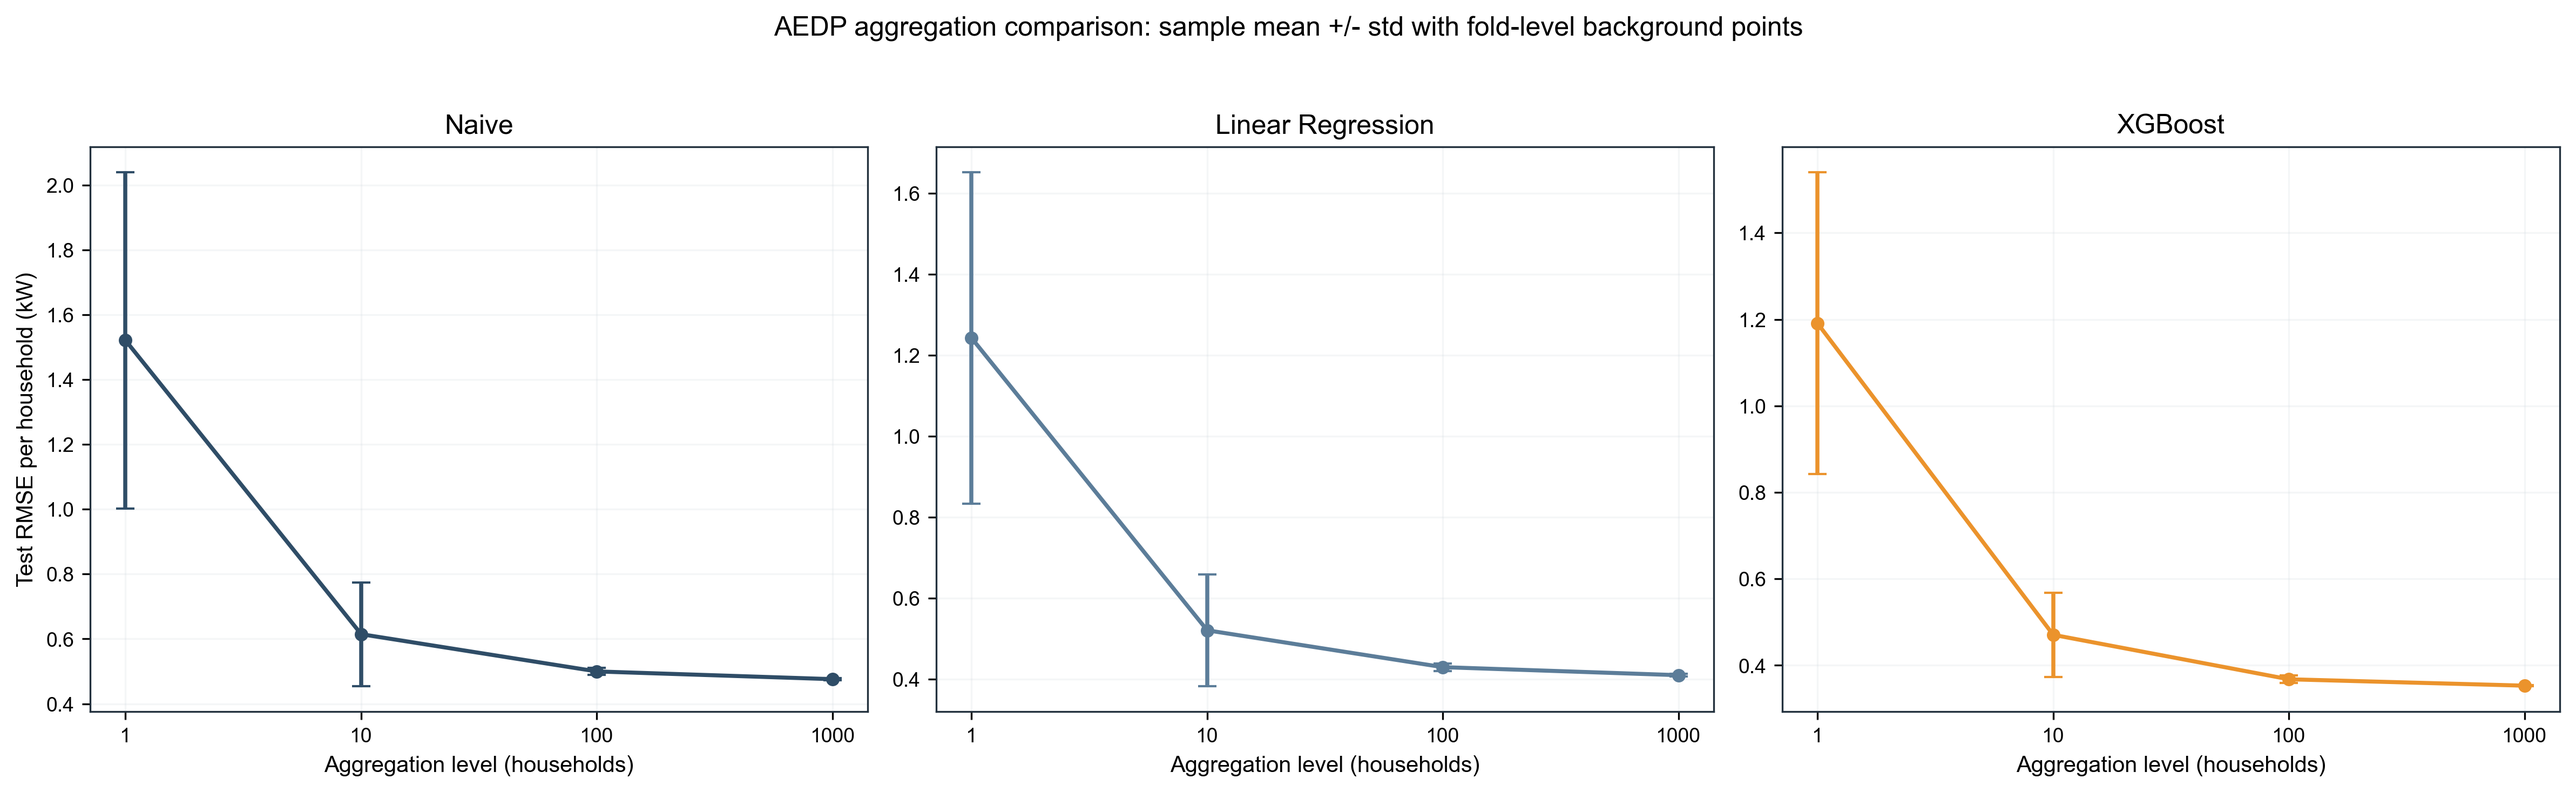
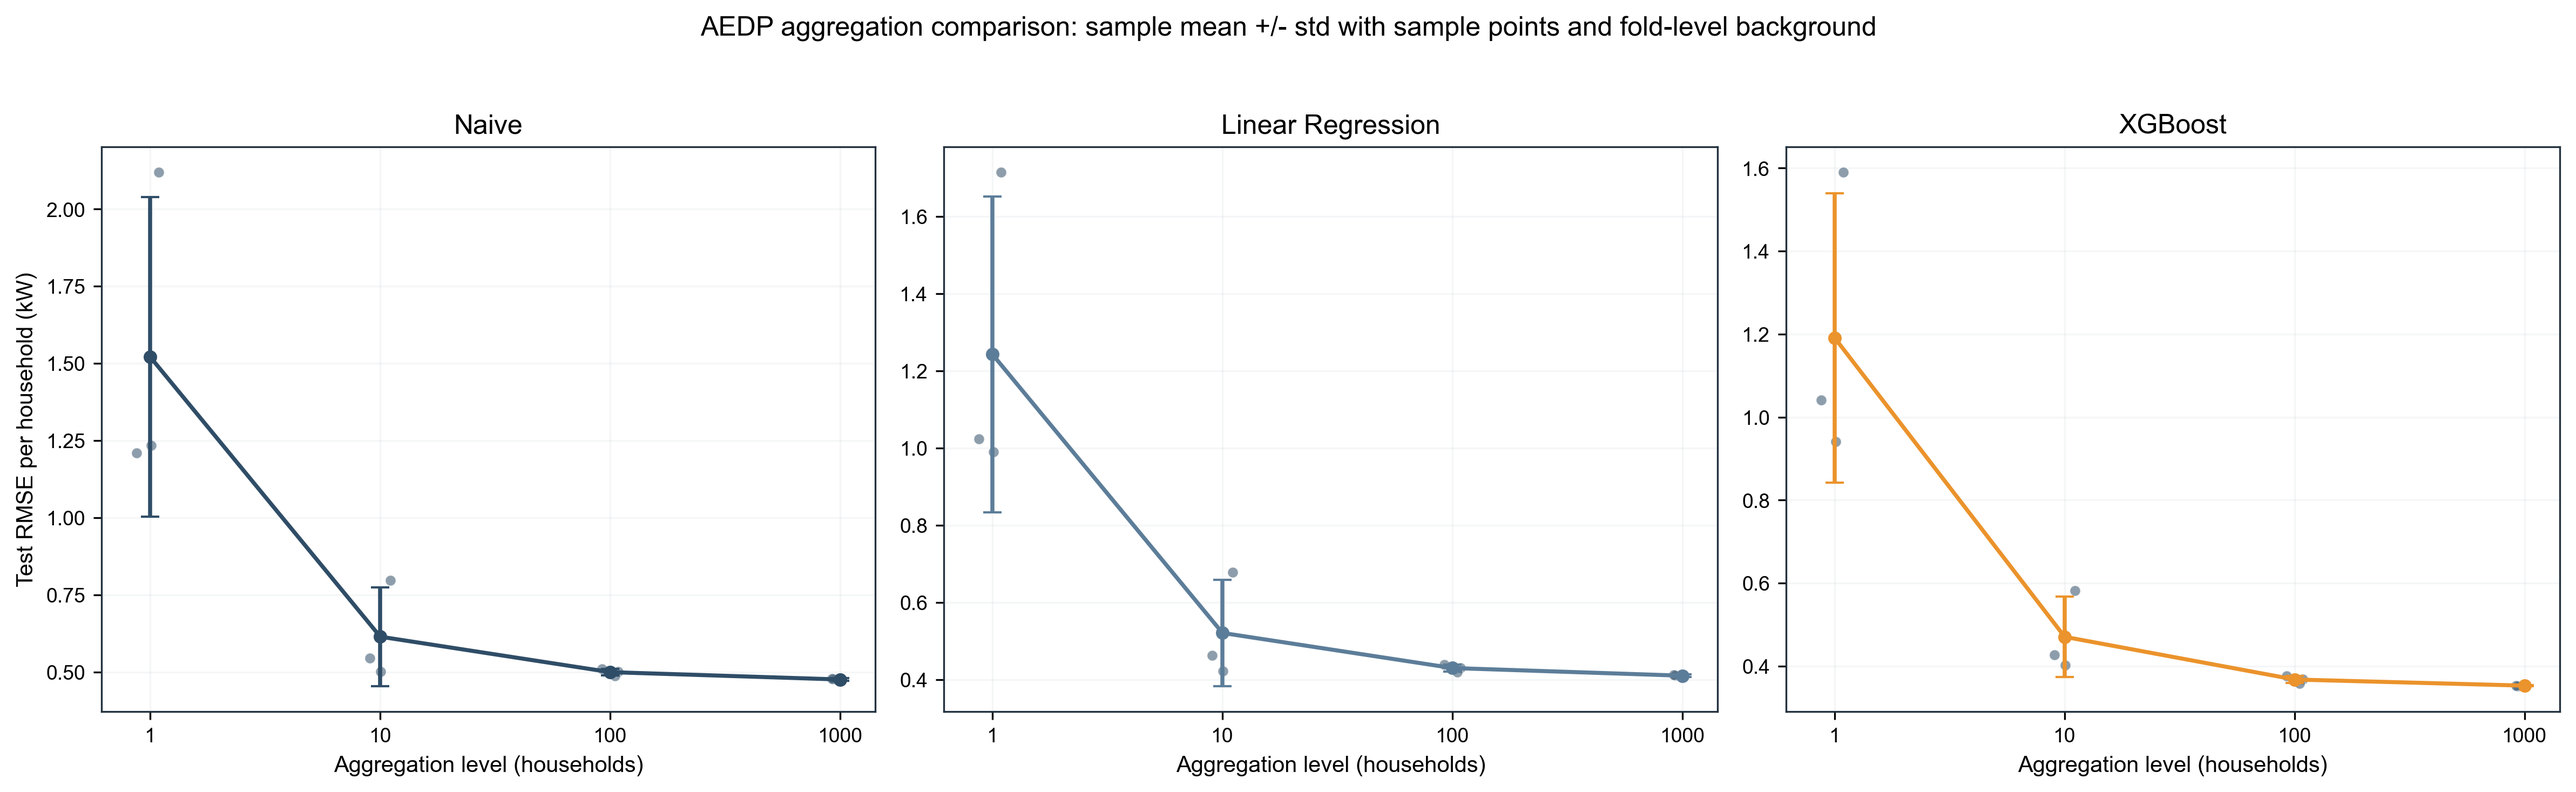
wip updating images

diff --git a/publication/journal_article_1/scripts/generate_supervisor_revision_outputs.py b/publication/journal_article_1/scripts/generate_supervisor_revision_outputs.py
@@ -338,6 +338,28 @@ def _plot_aggregation_summary_and_cv(recap_agg: pd.DataFrame) -> list[Path]:
             means = [float(m.loc[m["aggregation_level_hh"].eq(l), m_col].iloc[0]) if (m["aggregation_level_hh"] == l).any() else np.nan for l in levels]
             stds = [float(m.loc[m["aggregation_level_hh"].eq(l), s_col].iloc[0]) if (m["aggregation_level_hh"] == l).any() else np.nan for l in levels]
 
+            ax.set_axisbelow(True)
+
+            # Always show the three sample-level results in the background.
+            sm = s.loc[s["model_name"].eq(model)]
+            sample_metric_col = "test_nRMSE" if metric == "nrmse" else "rmse_per_hh"
+            for i, lvl in enumerate(levels):
+                svals = sm.loc[sm["aggregation_level_hh"].eq(lvl), sample_metric_col].dropna().to_numpy()
+                if len(svals) == 0:
+                    continue
+                rng = np.random.default_rng(4321 + i)
+                jitter = rng.uniform(-0.06, 0.06, size=len(svals))
+                ax.scatter(
+                    np.full(len(svals), i) + jitter,
+                    svals,
+                    s=22,
+                    color=PALETTE["grey"],
+                    alpha=0.55,
+                    edgecolors="white",
+                    linewidths=0.4,
+                    zorder=2,
+                )
+
             if not fold_df.empty:
                 fm = fold_df.loc[fold_df["model_name"].eq(model)]
                 for i, lvl in enumerate(levels):
@@ -351,7 +373,7 @@ def _plot_aggregation_summary_and_cv(recap_agg: pd.DataFrame) -> list[Path]:
                         vals,
                         s=13,
                         color=PALETTE["light_grey"],
-                        alpha=0.25,
+                        alpha=0.22,
                         edgecolors="none",
                         zorder=1,
                     )
@@ -374,7 +396,7 @@ def _plot_aggregation_summary_and_cv(recap_agg: pd.DataFrame) -> list[Path]:
             if ax is axes[0]:
                 ax.set_ylabel(y_label)
         fig.suptitle(
-            "AEDP aggregation comparison: sample mean +/- std with fold-level background points",
+            "AEDP aggregation comparison: sample mean +/- std with sample points and fold-level background",
             y=1.03,
         )
         fig.tight_layout()
@@ -485,6 +507,70 @@ def _select_representative_day(df: pd.DataFrame) -> tuple[pd.Timestamp, pd.DataF
     return day, d.loc[d["date"].eq(day.date())].copy()
 
 
+def _select_representative_week(df: pd.DataFrame, points_per_day: int = 48) -> tuple[pd.Timestamp, pd.DataFrame]:
+    d = df.copy()
+    if "datetime" not in d.columns or d["datetime"].isna().all():
+        start_idx = 0
+        end_idx = min(len(d), points_per_day * 7)
+        return pd.Timestamp("1970-01-01"), d.iloc[start_idx:end_idx].copy()
+
+    d = d.sort_values("datetime").reset_index(drop=True)
+    window = points_per_day * 7
+    if len(d) <= window:
+        start = d["datetime"].iloc[0]
+        return start, d.copy()
+
+    rolling_vol = (
+        d["observation"]
+        .rolling(window=window, min_periods=max(2, points_per_day * 3))
+        .apply(lambda x: float(np.std(np.diff(x.to_numpy()))) if len(x) > 1 else np.nan, raw=False)
+    )
+    if rolling_vol.dropna().empty:
+        start_idx = 0
+    else:
+        start_idx = int(rolling_vol.dropna().idxmax() - window + 1)
+        start_idx = max(0, min(start_idx, len(d) - window))
+    out = d.iloc[start_idx : start_idx + window].copy()
+    return out["datetime"].iloc[0], out
+
+
+def _select_composition_week(frames: dict[str, pd.DataFrame], points_per_day: int = 48) -> tuple[pd.Timestamp, dict[str, pd.DataFrame], str]:
+    keys = ["underlying_load", "net_load_with_pv", "net_load_with_pv_battery"]
+    sorted_frames = {k: frames[k].sort_values("datetime").reset_index(drop=True) for k in keys}
+    min_len = min(len(sorted_frames[k]) for k in keys)
+    window = points_per_day * 7
+    if min_len <= window:
+        clipped = {k: sorted_frames[k].iloc[:min_len].copy() for k in keys}
+        start = clipped[keys[0]]["datetime"].iloc[0] if "datetime" in clipped[keys[0]].columns else pd.Timestamp("1970-01-01")
+        return start, clipped, "fallback_short_series"
+
+    best_idx = None
+    best_rank = None
+    best_gap = None
+    for i in range(0, min_len - window + 1):
+        rough = {}
+        for k in keys:
+            seg = sorted_frames[k].iloc[i : i + window]
+            vals = seg["observation"].to_numpy()
+            rough[k] = float(np.std(np.diff(vals))) if len(vals) > 1 else np.inf
+        ordered = sorted(rough.items(), key=lambda kv: kv[1])
+        rank_map = {name: idx for idx, (name, _) in enumerate(ordered)}
+        underlying_rank = rank_map["underlying_load"]
+        gap = rough["underlying_load"] - min(rough["net_load_with_pv"], rough["net_load_with_pv_battery"])
+
+        candidate = (underlying_rank, gap)
+        if best_rank is None or candidate < (best_rank, best_gap):
+            best_idx = i
+            best_rank = underlying_rank
+            best_gap = gap
+
+    assert best_idx is not None
+    clipped = {k: sorted_frames[k].iloc[best_idx : best_idx + window].copy() for k in keys}
+    start = clipped[keys[0]]["datetime"].iloc[0]
+    mode = "underlying_not_most_volatile" if best_rank == 0 else "best_available_rank"
+    return start, clipped, mode
+
+
 def _plot_ashd_vs_aedp_xgb(
     recap_exp: pd.DataFrame,
     recap_agg: pd.DataFrame,
@@ -535,39 +621,51 @@ def _plot_ashd_vs_aedp_xgb(
             "ASHD vs AEDP XGBoost figure used AEDP aggregation fallback (100 households, sample 1) because ds11 fh8 xgb folds are unavailable locally."
         )
 
-    day_info = {}
+    week_info = {}
     for label, row in rows.items():
         cv1 = _pick_cv1_file(str(row["experiment_folder"]))
         df = _read_forecast_frame(cv1)
         if "datetime" not in df.columns or df["datetime"].isna().all():
             raise ValueError(f"Datetime missing in {cv1}")
-        day, day_df = _select_representative_day(df)
-        day_info[label] = (day, day_df)
+        week_start, week_df = _select_representative_week(df, points_per_day=48)
+        week_info[label] = (week_start, week_df)
 
-    # actual vs forecast
+    # actual vs forecast (1-week)
     fig, axes = plt.subplots(2, 1, figsize=(14, 7), sharex=False)
     for ax, label in zip(axes, ["ASHD", "AEDP"]):
-        day, d = day_info[label]
+        week_start, d = week_info[label]
+        ax.set_axisbelow(True)
         ax.plot(d["datetime"], d["observation"], color=PALETTE["dark_blue"], linewidth=1.8, label="Actual")
         ax.plot(d["datetime"], d["forecast"], color=PALETTE["orange"], linewidth=1.4, label="Forecast")
+        peak_idx = d["observation"].idxmax()
+        peak_val = float(d.loc[peak_idx, "observation"])
+        peak_dt = pd.to_datetime(d.loc[peak_idx, "datetime"]).strftime("%Y-%m-%d %H:%M")
+        ax.axhline(
+            peak_val,
+            color=PALETTE["grey"],
+            linewidth=1.1,
+            linestyle="--",
+            label=f"Peak demand: {peak_val:.2f} kW @ {peak_dt}",
+        )
         title_label = "ASHD" if label == "ASHD" else aedp_label
-        ax.set_title(f"{title_label} - representative high-volatility day ({day.date()})")
+        ax.set_title(f"{title_label} - representative high-volatility week from {week_start.date()}")
         ax.set_ylabel("kW")
-    axes[0].legend(loc="upper right", ncol=2)
+        ax.legend(loc="upper right", ncol=1)
     axes[-1].set_xlabel("Time")
-    fig.suptitle("XGBoost actual vs forecast: ASHD vs AEDP", y=1.02)
+    fig.suptitle("XGBoost actual vs forecast (1-week): ASHD vs AEDP", y=1.02)
     fig.tight_layout()
     p1 = save_figure(fig, fig_dir / "fig30_ashd_vs_aedp_xgb_actual_vs_forecast_daypair.png")
 
     # error profile
     fig, axes = plt.subplots(2, 1, figsize=(14, 6.5), sharex=False)
     for ax, label in zip(axes, ["ASHD", "AEDP"]):
-        day, d = day_info[label]
+        week_start, d = week_info[label]
+        ax.set_axisbelow(True)
         err = d["forecast"] - d["observation"]
         ax.plot(d["datetime"], err, color=PALETTE["grey"], linewidth=1.4)
         ax.axhline(0, color=PALETTE["dark_blue"], linewidth=1.0, linestyle="--")
         title_label = "ASHD" if label == "ASHD" else aedp_label
-        ax.set_title(f"{title_label} forecast error profile ({day.date()})")
+        ax.set_title(f"{title_label} forecast error profile (week from {week_start.date()})")
         ax.set_ylabel("Forecast - Actual (kW)")
     axes[-1].set_xlabel("Time")
     fig.suptitle("XGBoost daily error profile: ASHD vs AEDP", y=1.02)
@@ -630,8 +728,9 @@ def _plot_horizon_xgb(recap_exp: pd.DataFrame) -> list[Path]:
     em = pd.DataFrame(rows)
 
     fig, ax = plt.subplots(figsize=(8, 4.6))
+    ax.set_axisbelow(True)
     x = np.arange(len(em))
-    ax.bar(x, em["mae_mean"], yerr=em["mae_std"], capsize=5, color=PALETTE["grey"], alpha=0.9)
+    ax.bar(x, em["mae_mean"], yerr=em["mae_std"], capsize=5, color=PALETTE["grey"], alpha=0.9, zorder=3)
     ax.set_xticks(x)
     ax.set_xticklabels(em["horizon"])
     ax.set_ylabel("CV-fold MAE (kW)")
@@ -655,6 +754,23 @@ def _plot_load_composition_timeseries(recap_sa: pd.DataFrame) -> list[Path]:
         "net_load_with_pv": "Net load with PV",
         "net_load_with_pv_battery": "Net load with PV and battery",
     }
+    dataset_files = {
+        "underlying_load": DATA_DIR / "ds22_sa_bess_44hh_pos_underlying_load_30min.csv",
+        "net_load_with_pv": DATA_DIR / "ds23_sa_bess_44hh_pos_net_load_with_pv_30min.csv",
+        "net_load_with_pv_battery": DATA_DIR / "ds24_sa_bess_44hh_pos_net_load_with_pv_battery_30min.csv",
+    }
+
+    actual_frames: dict[str, pd.DataFrame] = {}
+    for lbl in label_order:
+        path = dataset_files[lbl]
+        d = _load_csv(path)
+        if "datetime" not in d.columns or "netload_kW" not in d.columns:
+            raise ValueError(f"Missing datetime/netload_kW in {path}")
+        d = d[["datetime", "netload_kW"]].copy()
+        d["datetime"] = pd.to_datetime(d["datetime"], errors="coerce")
+        d["observation"] = pd.to_numeric(d["netload_kW"], errors="coerce")
+        d = d.dropna(subset=["datetime", "observation"]).sort_values("datetime").reset_index(drop=True)
+        actual_frames[lbl] = d[["datetime", "observation"]]
 
     frames = {}
     for lbl in label_order:
@@ -668,25 +784,109 @@ def _plot_load_composition_timeseries(recap_sa: pd.DataFrame) -> list[Path]:
         row = subset.iloc[-1]
         cv1 = _pick_cv1_file(str(row["experiment_folder"]))
         df = _read_forecast_frame(cv1)
-        frames[lbl] = df.iloc[: min(336, len(df))].copy()
+        if "datetime" not in df.columns or df["datetime"].isna().all():
+            raise ValueError(f"Datetime missing in {cv1}")
+        aligned = actual_frames[lbl].merge(df[["datetime", "forecast"]], on="datetime", how="inner")
+        if aligned.empty:
+            raise ValueError(f"No datetime overlap between actual readings and forecast in {cv1}")
+        frames[lbl] = aligned[["datetime", "observation", "forecast"]].sort_values("datetime").reset_index(drop=True)
+
+    week_start, week_frames, week_mode = _select_composition_week(frames, points_per_day=48)
+
+    # Component overlays based on actual measured series in ds22/ds23/ds24.
+    # Direct 30-minute PV/battery channels are not stored as standalone publication CSVs.
+    pv_generation_obs = (
+        week_frames["underlying_load"]["observation"].to_numpy()
+        - week_frames["net_load_with_pv"]["observation"].to_numpy()
+    )
+    battery_operation_obs = (
+        week_frames["net_load_with_pv_battery"]["observation"].to_numpy()
+        - week_frames["net_load_with_pv"]["observation"].to_numpy()
+    )
+
+    roughness = {
+        lbl: float(np.std(np.diff(week_frames[lbl]["observation"].to_numpy())))
+        for lbl in label_order
+    }
+    overlay_roughness = {
+        "net_load_with_pv": float(np.std(np.diff(pv_generation_obs))),
+        "net_load_with_pv_battery": float(np.std(np.diff(battery_operation_obs))),
+    }
+
+    y_values = []
+    for lbl in label_order:
+        y_values.append(week_frames[lbl]["observation"].to_numpy())
+        y_values.append(week_frames[lbl]["forecast"].to_numpy())
+    y_values.extend([pv_generation_obs, battery_operation_obs])
+    y_all = np.concatenate(y_values)
+    y_min = float(np.nanmin(y_all))
+    y_max = float(np.nanmax(y_all))
+    y_pad = 0.04 * (y_max - y_min if y_max > y_min else 1.0)
+    y_limits = (y_min - y_pad, y_max + y_pad)
 
     fig, axes = plt.subplots(3, 1, figsize=(14, 8.5), sharex=False)
     for ax, lbl in zip(axes, label_order):
-        d = frames[lbl]
+        d = week_frames[lbl]
+        ax.set_axisbelow(True)
         x = d["datetime"] if "datetime" in d.columns else np.arange(len(d))
         ax.plot(x, d["observation"], color=PALETTE["dark_blue"], linewidth=1.6, label="Actual")
         ax.plot(x, d["forecast"], color=PALETTE["orange"], linewidth=1.2, label="Forecast")
+        if lbl == "net_load_with_pv":
+            ax.plot(
+                x,
+                pv_generation_obs,
+                color=PALETTE["light_grey"],
+                linewidth=1.1,
+                linestyle="--",
+                label="PV generation (reading-based)",
+            )
+        elif lbl == "net_load_with_pv_battery":
+            ax.plot(
+                x,
+                battery_operation_obs,
+                color=PALETTE["grey"],
+                linewidth=1.1,
+                linestyle=":",
+                label="Battery operation (reading-based)",
+            )
         ax.set_title(pretty[lbl])
         ax.set_ylabel("kW")
+        ax.set_ylim(*y_limits)
+        if lbl == "net_load_with_pv":
+            ann = (
+                f"roughness sd(diff)={roughness[lbl]:.2f}\n"
+                f"pv sd(diff)={overlay_roughness[lbl]:.2f}"
+            )
+        elif lbl == "net_load_with_pv_battery":
+            ann = (
+                f"roughness sd(diff)={roughness[lbl]:.2f}\n"
+                f"battery sd(diff)={overlay_roughness[lbl]:.2f}"
+            )
+        else:
+            ann = f"roughness sd(diff)={roughness[lbl]:.2f}"
+        ax.text(
+            0.01,
+            0.98,
+            ann,
+            transform=ax.transAxes,
+            va="top",
+            ha="left",
+            fontsize=8,
+            bbox={"facecolor": "white", "alpha": 0.75, "edgecolor": "none"},
+        )
+        if lbl in {"net_load_with_pv", "net_load_with_pv_battery"}:
+            ax.legend(loc="upper right", ncol=1)
     axes[0].legend(loc="upper right", ncol=2)
     axes[-1].set_xlabel("Time")
-    fig.suptitle("SA BESS composition: XGBoost actual vs forecast", y=1.01)
+    suffix = "(week where underlying is not the roughest)" if week_mode == "underlying_not_most_volatile" else "(best available representative week)"
+    fig.suptitle(f"SA BESS composition: XGBoost actual vs forecast {suffix}, from {week_start.date()}", y=1.01)
     fig.tight_layout()
     p1 = save_figure(fig, fig_dir / "fig20_sa_bess_composition_actual_vs_forecast_timeseries.png")
 
     fig, axes = plt.subplots(3, 1, figsize=(14, 8.5), sharex=False)
     for ax, lbl in zip(axes, label_order):
-        d = frames[lbl]
+        d = week_frames[lbl]
+        ax.set_axisbelow(True)
         x = d["datetime"] if "datetime" in d.columns else np.arange(len(d))
         err = d["forecast"] - d["observation"]
         ax.plot(x, err, color=PALETTE["grey"], linewidth=1.3)
@@ -916,7 +1116,7 @@ def _build_reference_mapping() -> tuple[Path, Path]:
             "artifact_type": "figure",
             "manuscript_section": "Results - Load composition comparison",
             "manuscript_label_proposed": "Figure B1",
-            "caption_short": "Time series actual vs forecast across load compositions",
+            "caption_short": "Time series actual vs forecast across load compositions with reading-based PV and battery overlays",
             "status": "ready",
         },
         {
@@ -932,7 +1132,7 @@ def _build_reference_mapping() -> tuple[Path, Path]:
             "artifact_type": "figure",
             "manuscript_section": "Results - Dataset comparison",
             "manuscript_label_proposed": "Figure C1",
-            "caption_short": "XGBoost actual vs forecast for ASHD vs AEDP",
+            "caption_short": "XGBoost actual vs forecast for ASHD vs AEDP (representative 1-week windows) with peak-demand lines",
             "status": "ready",
         },
         {

diff --git a/publication/journal_article_1/scripts/publication_plot_style.py b/publication/journal_article_1/scripts/publication_plot_style.py
@@ -32,6 +32,7 @@ def apply_publication_style() -> None:
             "ytick.labelsize": 9,
             "legend.fontsize": 9,
             "axes.grid": True,
+            "axes.axisbelow": True,
             "grid.alpha": 0.18,
             "grid.color": "#c7d0d8",
             "axes.edgecolor": "#22303d",

diff --git a/publication/journal_article_1/results/paper_artifact_reference_mapping.md b/publication/journal_article_1/results/paper_artifact_reference_mapping.md
@@ -24,11 +24,11 @@ This file maps generated CSV/PNG artifacts to their intended manuscript section 
 - Figure A4(d): results/03_aedp_aggregation_level/figures/fig13d_aedp_agg1000_actual_vs_forecast_scatter_naive_lr_xgb.png - Scatter actual vs forecast (1000 households)
 
 ## Results - Load composition comparison
-- Figure B1: results/04_sa_bess_clean_44hh/figures/fig20_sa_bess_composition_actual_vs_forecast_timeseries.png - Time series actual vs forecast across load compositions
+- Figure B1: results/04_sa_bess_clean_44hh/figures/fig20_sa_bess_composition_actual_vs_forecast_timeseries.png - Time series actual vs forecast across load compositions with reading-based PV and battery overlays
 - Figure B2: results/04_sa_bess_clean_44hh/figures/fig21_sa_bess_composition_error_timeseries.png - Forecast error time series across load compositions
 
 ## Results - Dataset comparison
-- Figure C1: results/01_ashd_aedp_148hh_comparison/figures/fig30_ashd_vs_aedp_xgb_actual_vs_forecast_daypair.png - XGBoost actual vs forecast for ASHD vs AEDP
+- Figure C1: results/01_ashd_aedp_148hh_comparison/figures/fig30_ashd_vs_aedp_xgb_actual_vs_forecast_daypair.png - XGBoost actual vs forecast for ASHD vs AEDP (representative 1-week windows) with peak-demand lines
 - Figure C2: results/01_ashd_aedp_148hh_comparison/figures/fig31_ashd_vs_aedp_xgb_error_profile_daypair.png - XGBoost error profile for ASHD vs AEDP
 
 ## Results - Forecast horizon comparison
